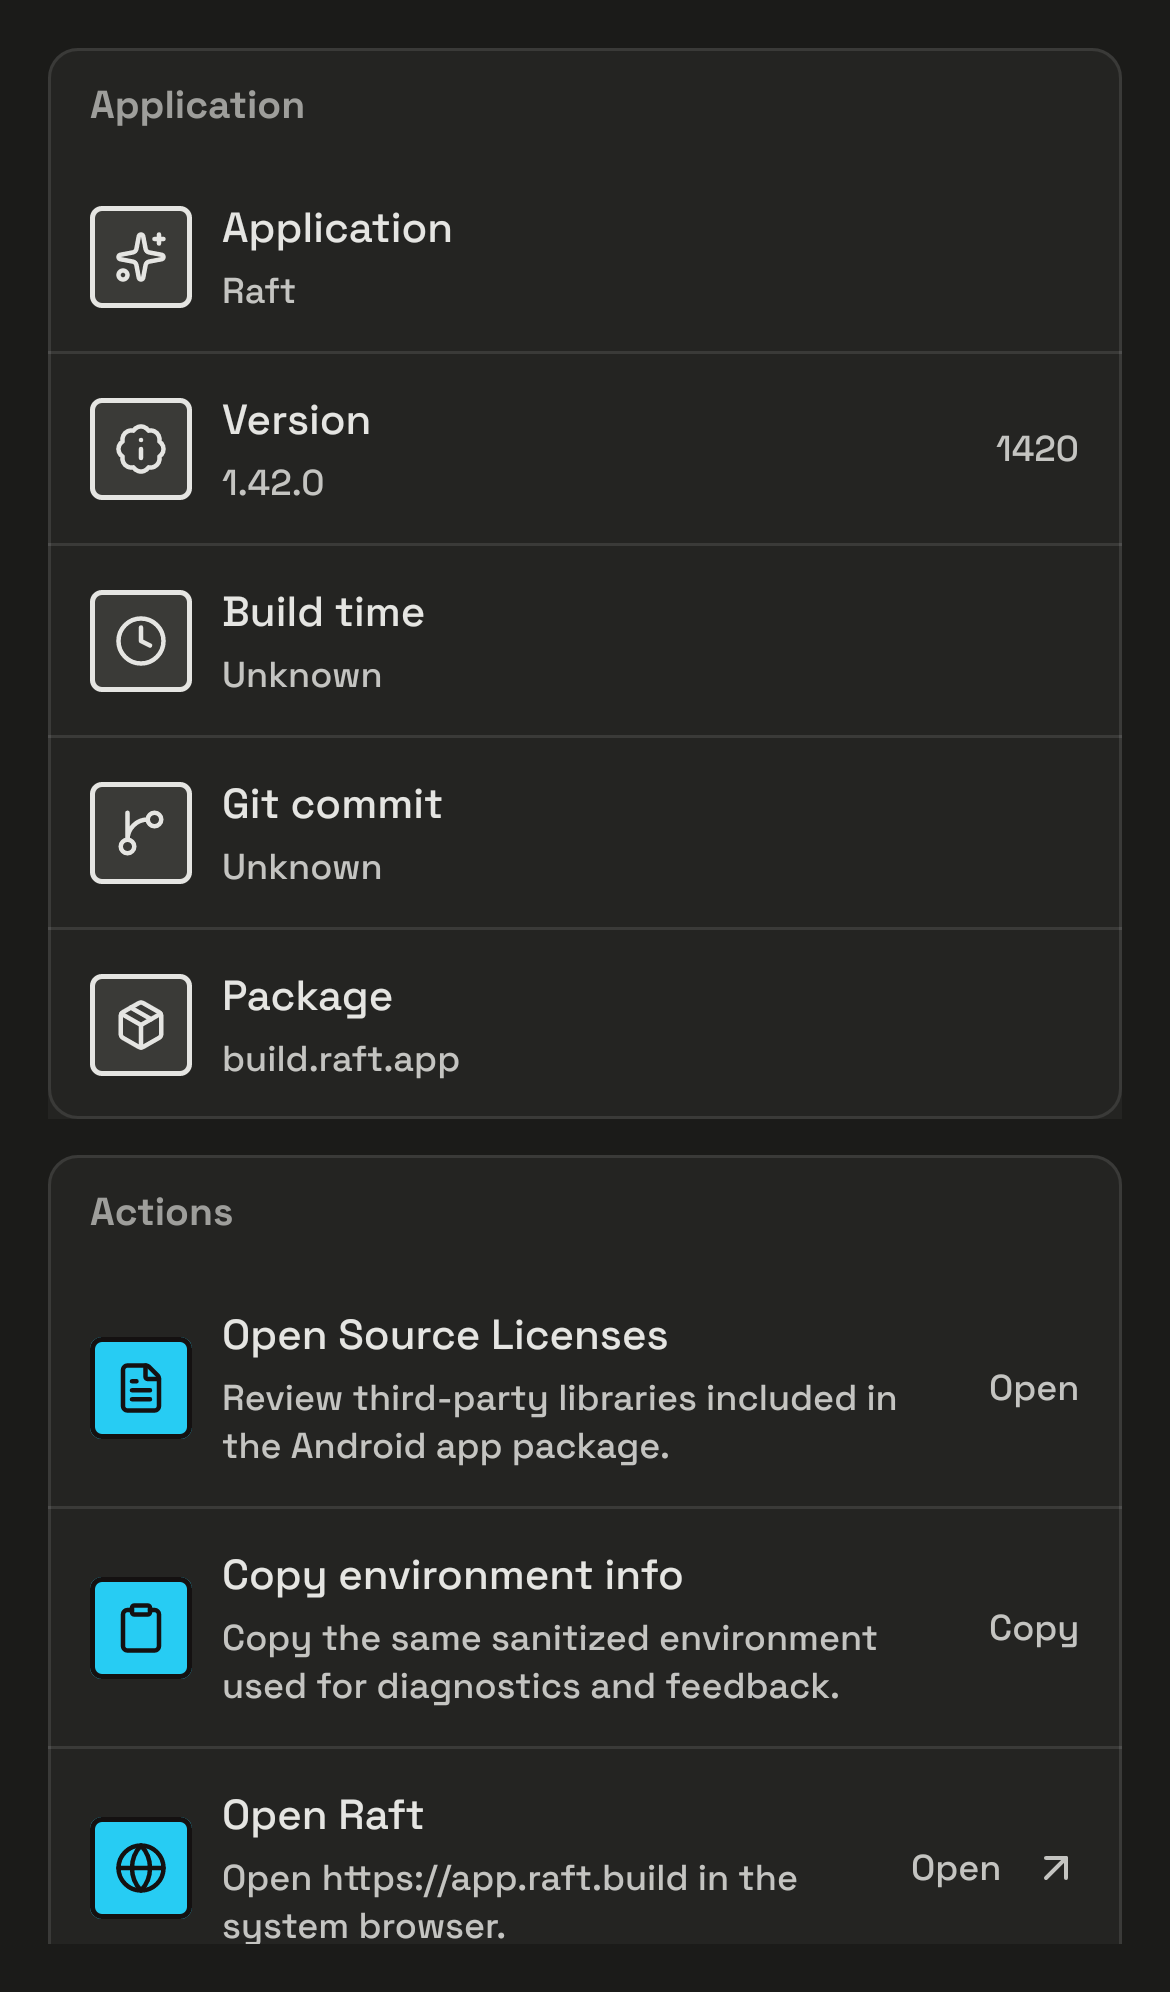
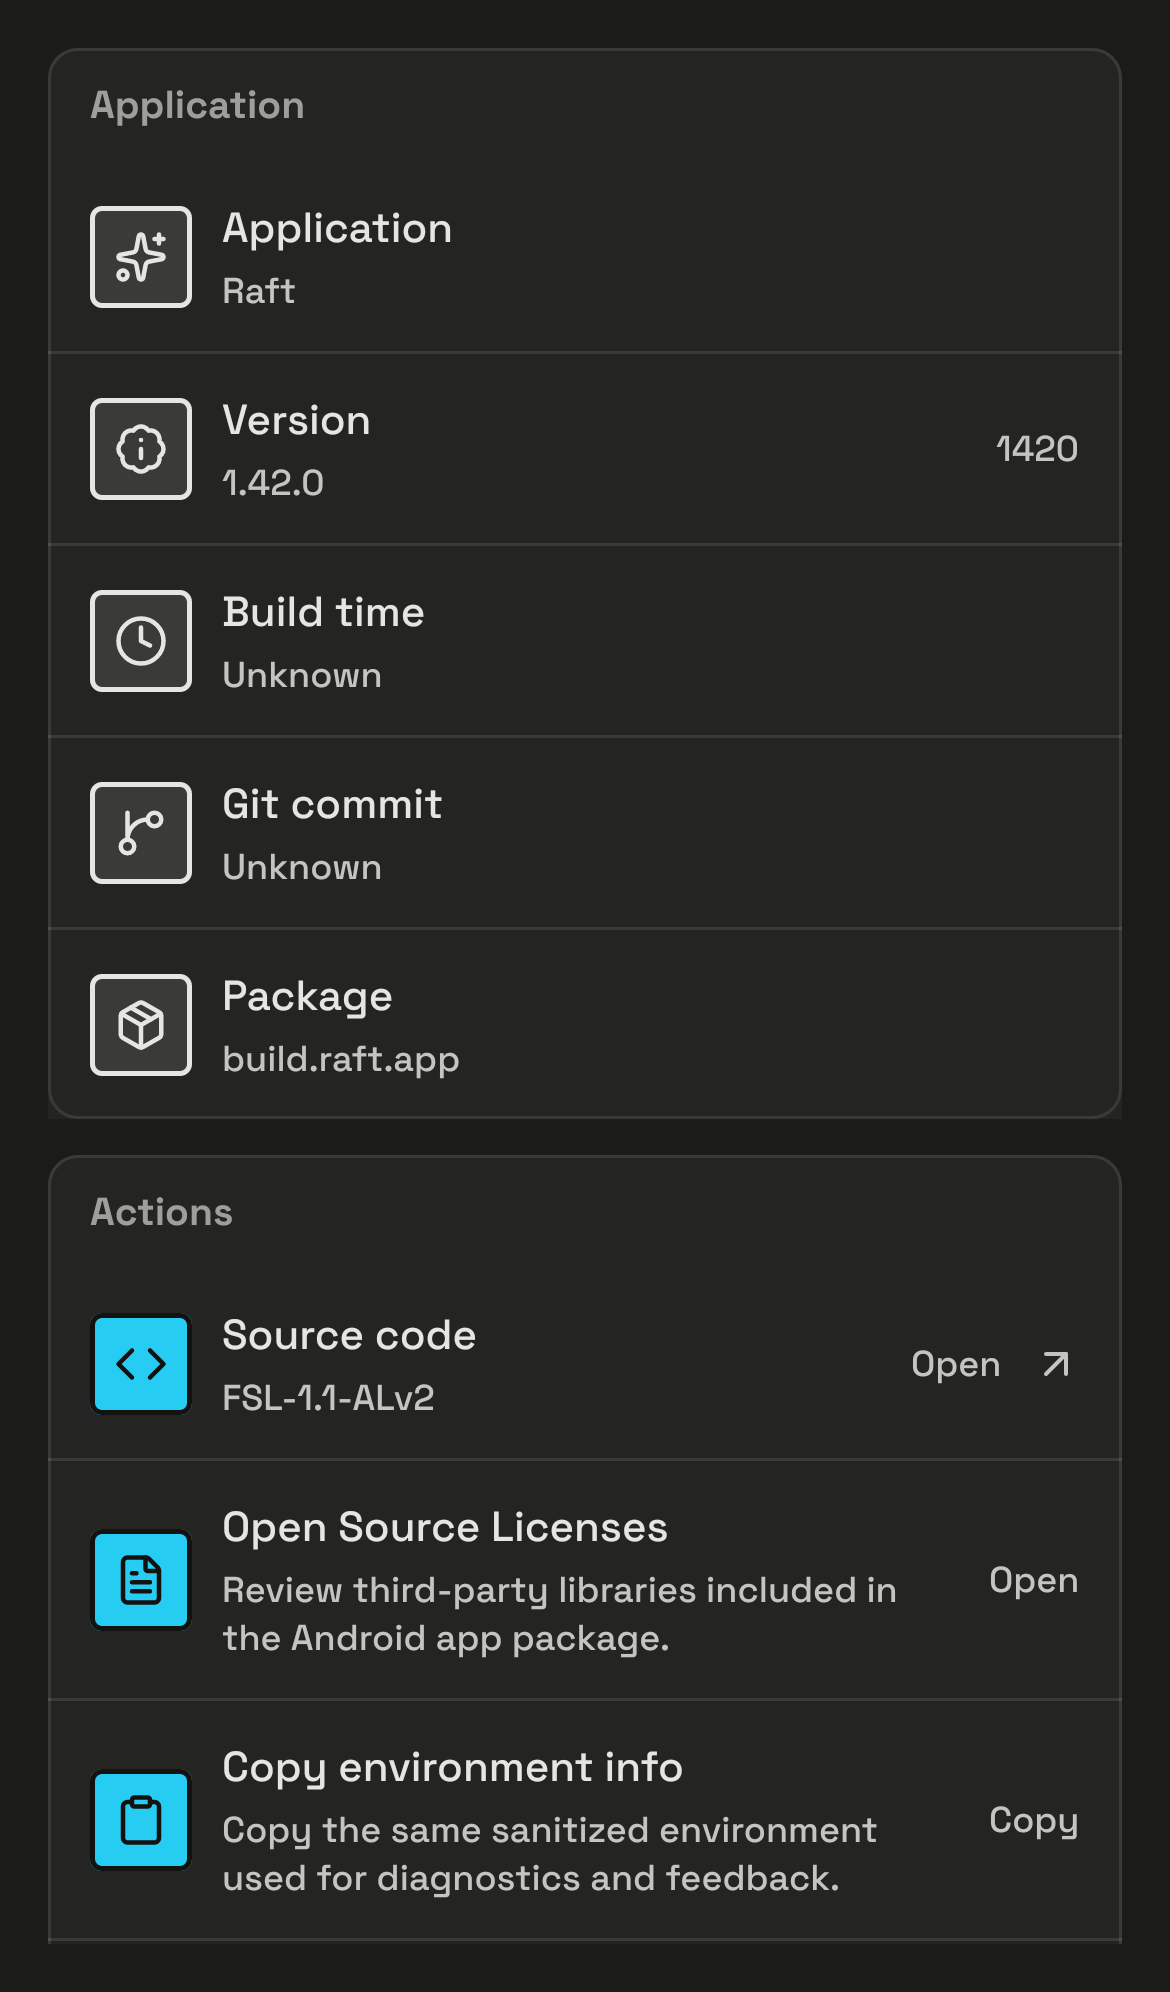
feat(settings): About › Source code row (github.com/botiverse/mobile, FSL-1.1-ALv2)
Adds a Source code row (zh-CN 源代码, ja ソースコード) to the shared About page
(Android, iOS, desktop), with the license FSL-1.1-ALv2 as secondary text. It
opens https://github.com/botiverse/mobile in the system browser through the
page's existing URL opener (onOpenRaft renamed onOpenUrl, as it opens any URL).
Wording says "Source code", not "open source": FSL is source-available.

Re-records the settings.about light/dark goldens.

diff --git a/compose/shared/src/commonMain/kotlin/build/raft/app/SettingsAboutPage.kt b/compose/shared/src/commonMain/kotlin/build/raft/app/SettingsAboutPage.kt
@@ -31,7 +31,7 @@ internal fun SharedSettingsAboutContent(
     onCopyBuild: (String) -> Unit,
     onCopyValue: ((String) -> Unit)? = null,
     webUrl: String = SharedSettingsDefaultWebBaseUrl,
-    onOpenRaft: (String) -> Unit,
+    onOpenUrl: (String) -> Unit,
     onCheckHandsUpdate: () -> Unit,
     onPrefetchReleaseNotes: suspend (String) -> Unit = {},
     onOpenSourceLicenses: () -> Unit,
@@ -101,7 +101,8 @@ internal fun SharedSettingsAboutContent(
     SharedSettingsSectionContent(payload, bottomContentPadding = bottomContentPadding, onCopyValue = onCopyValue) { action, value ->
         when (action) {
             "copyBuild" -> onCopyBuild(value.orEmpty().ifBlank { snapshot.buildSummary() })
-            "openSlock" -> onOpenRaft(value.orEmpty().ifBlank { webUrl })
+            "openSlock", SETTINGS_ABOUT_SOURCE_CODE_ACTION ->
+                settingsAboutExternalUrl(action, value, webUrl)?.let(onOpenUrl)
             DEVELOPER_ACTION_HANDS_UPDATE_CHECK -> onCheckHandsUpdate()
             "openSourceLicenses" -> onOpenSourceLicenses()
             "copyEnvironmentInfo" -> onCopyEnvironmentInfo()
@@ -113,6 +114,24 @@ internal fun SharedSettingsAboutContent(
 }
 
 internal const val SETTINGS_ABOUT_FEEDBACK_ACTION = "sendFeedback"
+internal const val SETTINGS_ABOUT_SOURCE_CODE_ACTION = "openSourceCode"
+
+/** The app's own source repository, opened from Settings › About › Source code. */
+internal const val RAFT_MOBILE_SOURCE_CODE_URL = "https://github.com/botiverse/mobile"
+
+/**
+ * The app's license: the Functional Source License 1.1, which converts to Apache 2.0 after two
+ * years. It is source-available, not OSI open source, so the row says "Source code".
+ */
+internal const val RAFT_MOBILE_SOURCE_LICENSE = "FSL-1.1-ALv2"
+
+/** The URL an About row opens in the system browser, or null for rows that don't leave Raft. */
+internal fun settingsAboutExternalUrl(action: String, value: String?, webUrl: String): String? =
+    when (action) {
+        "openSlock" -> value.orEmpty().ifBlank { webUrl }
+        SETTINGS_ABOUT_SOURCE_CODE_ACTION -> value.orEmpty().ifBlank { RAFT_MOBILE_SOURCE_CODE_URL }
+        else -> null
+    }
 
 internal fun settingsAboutDeveloperShortcutRows(
     environmentTitle: String,
@@ -197,6 +216,7 @@ internal data class SettingsAboutPayloadCopy(
     val checkUpdateDetail: String = "Checks for a newer mobile build and opens the installer when available.",
     val checking: String = "Checking",
     val check: String = "Check",
+    val sourceCode: String = "Source code",
     val licenses: String = "Open Source Licenses",
     val licensesDetail: String = "Review third-party libraries included in the app package.",
     val open: String = "Open",
@@ -226,6 +246,7 @@ private fun settingsAboutPayloadCopy(resolvedWebUrl: String): SettingsAboutPaylo
         checkUpdateDetail = stringResource(Res.string.settings_about_check_update_detail, raftPlatformProductName()),
         checking = stringResource(Res.string.settings_about_state_checking),
         check = stringResource(Res.string.settings_about_action_check),
+        sourceCode = stringResource(Res.string.settings_about_source_code),
         licenses = stringResource(Res.string.settings_open_source_licenses_title),
         licensesDetail = stringResource(Res.string.settings_about_licenses_detail, raftPlatformProductName()),
         open = stringResource(Res.string.settings_state_open),
@@ -304,6 +325,19 @@ internal fun SharedSettingsAboutSnapshot.toAboutPayload(
                                     )
                                 )
                             }
+                            add(
+                                RaftSharedSettingsRow(
+                                    key = SETTINGS_ABOUT_SOURCE_CODE_ACTION,
+                                    iconName = RaftLucideIconName.Code,
+                                    title = copy.sourceCode,
+                                    detail = RAFT_MOBILE_SOURCE_LICENSE,
+                                    value = RAFT_MOBILE_SOURCE_CODE_URL,
+                                    status = copy.open,
+                                    enabled = true,
+                                    copyValue = RAFT_MOBILE_SOURCE_CODE_URL,
+                                    external = true
+                                )
+                            )
                             add(
                                 RaftSharedSettingsRow(
                                     key = "openSourceLicenses",

diff --git a/compose/shared/src/commonTest/kotlin/build/raft/app/SettingsAboutSourceCodeTest.kt b/compose/shared/src/commonTest/kotlin/build/raft/app/SettingsAboutSourceCodeTest.kt
@@ -1,0 +1,50 @@
+package build.raft.app
+
+import build.raft.app.data.SharedSettingsAboutSnapshot
+import kotlin.test.Test
+import kotlin.test.assertEquals
+import kotlin.test.assertFalse
+import kotlin.test.assertNull
+import kotlin.test.assertTrue
+
+class SettingsAboutSourceCodeTest {
+    private val actionRows =
+        SharedSettingsAboutSnapshot(appName = "Raft", versionLabel = "1.42.0", buildLabel = "1420")
+            .toAboutPayload(webUrl = "https://app.raft.build", errorStrings = englishErrorPresentationStringsForTest())
+            .sections.first { it.title == "Actions" }.rows
+
+    @Test
+    fun aboutShowsSourceCodeRowWithLicenseAsSecondaryText() {
+        val row = actionRows.single { it.key == SETTINGS_ABOUT_SOURCE_CODE_ACTION }
+
+        assertEquals("Source code", row.title)
+        assertEquals("FSL-1.1-ALv2", row.detail)
+        assertEquals("Open", row.status)
+        assertTrue(row.enabled)
+        assertTrue(row.external)
+        // FSL is source-available, not OSI open source: the row never says "open source".
+        assertFalse(row.title.contains("open source", ignoreCase = true))
+        // It sits next to the third-party licenses row.
+        assertEquals("openSourceLicenses", actionRows[actionRows.indexOf(row) + 1].key)
+    }
+
+    @Test
+    fun sourceCodeRowOpensTheExactRepositoryUrl() {
+        val row = actionRows.single { it.key == SETTINGS_ABOUT_SOURCE_CODE_ACTION }
+
+        assertEquals(
+            "https://github.com/botiverse/mobile",
+            settingsAboutExternalUrl(row.key, row.value, webUrl = "https://app.raft.build")
+        )
+        assertEquals(
+            "https://github.com/botiverse/mobile",
+            settingsAboutExternalUrl(SETTINGS_ABOUT_SOURCE_CODE_ACTION, null, webUrl = "https://app.raft.build")
+        )
+    }
+
+    @Test
+    fun openRaftRowStillOpensTheWebAppAndOtherRowsOpenNothing() {
+        assertEquals("https://app.raft.build", settingsAboutExternalUrl("openSlock", null, webUrl = "https://app.raft.build"))
+        assertNull(settingsAboutExternalUrl("openSourceLicenses", null, webUrl = "https://app.raft.build"))
+    }
+}

diff --git a/compose/shared/src/androidUnitTest/kotlin/build/raft/app/ExternalLinkMarksScreenshotTest.kt b/compose/shared/src/androidUnitTest/kotlin/build/raft/app/ExternalLinkMarksScreenshotTest.kt
@@ -19,7 +19,8 @@ import org.robolectric.annotation.GraphicsMode
 
 /**
  * raft-ui 0.26 (#758), links that leave Raft end in ↗, light and dark:
- * - Settings > About: the Open Raft row (the web app in the system browser) ends in ↗;
+ * - Settings > About: the Source code row (github.com/botiverse/mobile, FSL-1.1-ALv2) ends in ↗,
+ *   as does Open Raft (the web app in the system browser), now just below the fold;
  * - the in-app browser's load error: Open in System Browser with ↗ in its trailing icon's place.
  * A 390dp-wide phone. Reports land in `build/reports/home-screenshots/`; verify / record as
  * [RaftRobolectricScreenshot].
@@ -67,7 +68,7 @@ private fun AboutFixture() {
         updateCheck = null,
         actionState = null,
         onCopyBuild = {},
-        onOpenRaft = {},
+        onOpenUrl = {},
         onCheckHandsUpdate = {},
         onOpenSourceLicenses = {},
         onCopyEnvironmentInfo = {},

diff --git a/compose/shared/src/commonMain/kotlin/build/raft/app/AuthPages.kt b/compose/shared/src/commonMain/kotlin/build/raft/app/AuthPages.kt
@@ -550,7 +550,7 @@ private fun AuthAboutScreen(initialDestination: AuthAboutDestination = AuthAbout
                     onCopyBuild = { value -> settingsCapabilities.bridgeCopyToClipboard(value) },
                     onCopyValue = { value -> settingsCapabilities.bridgeCopyToClipboard(value) },
                     webUrl = (developerState as? ScreenLoadState.Content<SharedSettingsDeveloperSnapshot>)?.data?.webUrl.orEmpty(),
-                    onOpenRaft = { url -> linkNavigator.open(url) },
+                    onOpenUrl = { url -> linkNavigator.open(url) },
                     onCheckHandsUpdate = {
                         bridgeCallScope.launch {
                             developerState =

diff --git a/compose/shared/src/commonMain/kotlin/build/raft/app/SettingsNativeDetailContent.kt b/compose/shared/src/commonMain/kotlin/build/raft/app/SettingsNativeDetailContent.kt
@@ -653,7 +653,7 @@ internal fun SettingsNativeDetailPageContent(
                         settingsCapabilities.bridgeCopyToClipboard(summary)
                     },
                     webUrl = sharedSettingsResolvedWebBaseUrl(settingsState.developer.configuredWebBaseUrlOrNull()),
-                    onOpenRaft = { url -> settingsCapabilities.openUrl(url) },
+                    onOpenUrl = { url -> settingsCapabilities.openUrl(url) },
                     onCheckHandsUpdate = {
                         onSettingsIntent(SharedSettingsIntent.CheckHandsUpdate)
                     },
